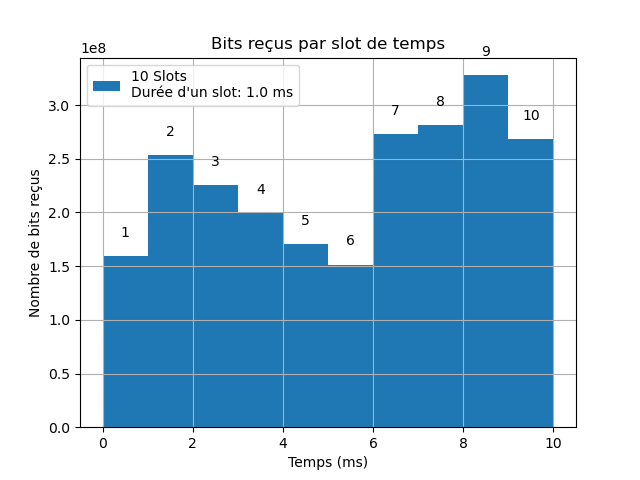
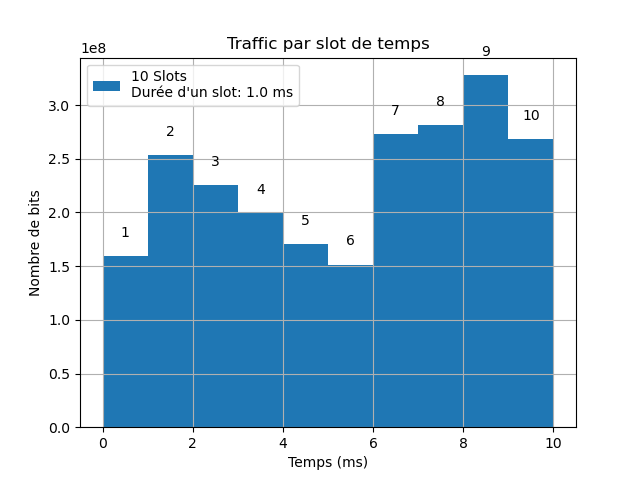
release v0

Changed region(s): [[0.3125, 0.0625, 0.6875, 0.125], [0.0312, 0.3438, 0.0625, 0.6562]]

diff --git a/lab3_eq7.py b/lab3_eq7.py
@@ -501,10 +501,11 @@ def write_transmission_ant_to_file(antennas, fichier_de_cas):
             for slot in  range(int((temps_final-temps_initial)/pas_temps)): 
                 line = f"{float(slot)}\t"
                 line += ":\t"
-                if antenna.nbits[slot] != 0 :
-                    line += f"{antenna.nbits[slot]}"
-                    for ue in antenna.live_ues[slot]:
-                        line += f"\t{ue}"
+                if antenna.nbits != [] :
+                    if antenna.nbits[slot] != 0 :
+                        line += f"{antenna.nbits[slot]}"
+                        for ue in antenna.live_ues[slot]:
+                            line += f"\t{ue}"
                 line += "\n"
                 file.write(line)
     print(f"INFO : Wrote file '{filename}' in the current directory.")
@@ -1036,7 +1037,7 @@ def simulate_packet_transmission(fichier_de_cas, fichier_de_device, antennas, ue
 
     # Boucle de simulation
     temps_courant = temps_initial
-    while temps_courant < temps_final-(temps_final-pas_temps*int((temps_final - temps_initial) / pas_temps)): # tant que le temps courant est inferieur au temps de fin de simulation
+    while temps_courant < 0.99*(temps_final-(temps_final-pas_temps*int((temps_final - temps_initial) / pas_temps))) + temps_initial : # tant que le temps courant est inferieur au temps de fin de simulation
         # Logique de simulation de transmission de paquets entre antennes et UEs
         # Pour chaque UE
         for ue in ues:
@@ -1058,9 +1059,7 @@ def simulate_packet_transmission(fichier_de_cas, fichier_de_device, antennas, ue
                         # Mettre à jour l'attribut nbits de l'antenne si celui-ci est vide
                         while len(ue.nbits) < int((temps_final - temps_initial) / pas_temps) :
                             ue.nbits.append(0)
-                    if temps_courant / pas_temps > 1.0 :
-                        print("EHHH")
-                    ue.nbits[int(round(temps_courant / pas_temps))] += nbits_transmis 
+                    ue.nbits[int(round(temps_courant / pas_temps)) - int(round(temps_initial / pas_temps))] += nbits_transmis 
                     
                     # Mettre à jour les donnees de l'antenne associee
                     antenne_associee_id = ue.assoc_ant
@@ -1079,14 +1078,14 @@ def simulate_packet_transmission(fichier_de_cas, fichier_de_device, antennas, ue
                                 # Mettre à jour l'attribut nbits de l'antenne si celui-ci est vide
                                 while len(antenne.nbits) < int((temps_final - temps_initial) / pas_temps) :
                                     antenne.nbits.append(0)
-                            antenne.nbits[int(round(temps_courant / pas_temps))] += nbits_transmis 
+                            antenne.nbits[int(round(temps_courant / pas_temps)) - int(round(temps_initial / pas_temps))] += nbits_transmis 
                             
                             # Ajouter l'UE à la liste des UEs actives de l'antenne si pas deja ajoute 
                             if antenne.live_ues == [] :
                                 while len(antenne.live_ues) < int((temps_final - temps_initial) / pas_temps) :
                                     antenne.live_ues.append([])
-                            if ue.id not in antenne.live_ues[int(temps_courant / pas_temps)]:
-                                antenne.live_ues[int(round(temps_courant / pas_temps))].append(ue.id)                            
+                            if ue.id not in antenne.live_ues[int(temps_courant / pas_temps) - int(round(temps_initial / pas_temps))]:
+                                antenne.live_ues[int(round(temps_courant / pas_temps)) - int(round(temps_initial / pas_temps))].append(ue.id)                            
                             break
 
         
@@ -1185,6 +1184,7 @@ def validate_structure(content, expected_structure):
 
 # Fonction permettant d'afficher la disposition des equipements Antennes et UEs sur un plot
 # Nbre param: 2 ( antennas = liste des antennes , ues = liste des ues)
+# Valeur de retour : None
 def plot_equipment_positions(antennas, ues):
     # Créer une nouvelle figure
     plt.figure(figsize=(8, 6))
@@ -1217,40 +1217,9 @@ def plot_equipment_positions(antennas, ues):
     
 
 
-def plot_TX_all(filename, ues, antennas, fichier_de_cas):
-    # Récupérer le pas de temps
-    pas_temps = get_from_dict('dt', fichier_de_cas)
-    
-    # Créer le graphique
-    plt.figure(figsize=(10, 6))  # Ajustez la taille selon vos préférences
-    
-    # Tracer le trafic de chaque UE avec son antenne respective
-    for ue in ues:
-        for antenne in antennas:
-            if ue.assoc_ant == antenne.id:
-                # Créer les listes des temps et des nbits pour l'UE spécifiée
-                temps = []
-                nbits = []
-                for i in range(len(ue.nbits)):
-                    temps.append(i * pas_temps)  # temps en secondes
-                    nbits.append(ue.nbits[i])
-
-                # Tracer le graphique pour l'UE et son antenne respective
-                plt.plot(temps, nbits, label=f"UE {ue.id} - Antenne {antenne.id}")
-
-    # Ajouter les légendes et les titres
-    plt.title("Historique des transmissions de toutes les UEs avec leurs antennes respectives")
-    plt.xlabel("Temps (s)")
-    plt.ylabel("Nombre de bits transmis")
-    plt.legend()
-    plt.grid(True)
-
-    # Sauvegarder le graphique dans un fichier PDF
-    plt.savefig(filename)
-    plt.close()
-
-    print(f"L'historique des transmissions de toutes les UEs avec leurs antennes respectives a été tracé dans {filename}.")
-
+# Fonction pour plot la traffic moyen pour chaque UE
+# Arguments : filename, ues= list of objects UE
+# Valeur de retour : None
 def plot_average_traffic_ues(filename, ues):
     # Calculer la moyenne du trafic pour chaque UE
     average_traffic_ues = [sum(ue.nbits) / len(ue.nbits) if ue.nbits else 0  for ue in ues]
@@ -1275,11 +1244,14 @@ def plot_average_traffic_ues(filename, ues):
     plt.savefig(png_filename)
     plt.close()
 
-    print(f"The average traffic of each UE has been plotted in '{pdf_filename}' and '{png_filename}'.")
+    print(f"INFO : Please find the average traffic for each UE plotted in the files '{pdf_filename}' and '{png_filename}'.")
 
+# Fonction pour plot la traffic moyen pour chaque antenne
+# Arguments : filename, antennas= list of objects Antenna
+# Valeur de retour : None
 def plot_average_traffic_antennas(filename, antennas):
     # Calculer la moyenne du trafic pour chaque antenne
-    average_traffic_antennas = [sum(antenne.nbits) / len(antenne.nbits) for antenne in antennas]
+    average_traffic_antennas = [sum(antenne.nbits) / len(antenne.nbits) if antenne.nbits else 0 for antenne in antennas]
 
     # Extraire les ID des antennes
     antenna_ids = [antenne.id for antenne in antennas]
@@ -1301,14 +1273,18 @@ def plot_average_traffic_antennas(filename, antennas):
     plt.savefig(png_filename)
     plt.close()
 
-    print(f"The average traffic of each UE has been plotted in '{pdf_filename}' and '{png_filename}'.")
+    print(f"INFO : Please find the average traffic for each antenna plotted in the files '{pdf_filename}' and '{png_filename}'.")
 
+# Fonction to plot the traffic per time slot
+# Arguments : antennas= list of objects Antenna, ues= liste of objects UE, fichier_de_cas, filename_prefix
+# Valeur de retour : None
 def plot_bits_received_per_slot(antennas, ues, fichier_de_cas, filename_prefix):
     num_slots = len(ues[0].nbits)  # Nombre de créneaux basé sur la longueur de la liste de bits reçus d'un UE
     slot_interval = get_from_dict('dt',fichier_de_cas) # pas de temps dt
+    temps_initial = get_from_dict('tstart',fichier_de_cas)
 
     # Création des créneaux en millisecondes
-    slots = np.arange(0, num_slots * slot_interval, slot_interval)
+    slots = np.arange(temps_initial, num_slots * slot_interval + temps_initial, slot_interval)
 
     slot_sum_bits_received = np.zeros(num_slots)  # Tableau pour stocker la somme des bits reçus pour chaque créneau
 
@@ -1331,8 +1307,8 @@ def plot_bits_received_per_slot(antennas, ues, fichier_de_cas, filename_prefix):
     # Création du graphique
     plt.bar(slots, slot_sum_bits_received, width=slot_interval, align='edge')
     plt.xlabel('Temps (ms)')
-    plt.ylabel('Nombre de bits reçus')
-    plt.title('Bits reçus par slot de temps')
+    plt.ylabel('Nombre de bits')
+    plt.title('Traffic par slot de temps')
     plt.grid(True)
 
     # Ajouter la durée d'un slot et le numéro de chaque slot au-dessus du graphique
@@ -1351,7 +1327,7 @@ def plot_bits_received_per_slot(antennas, ues, fichier_de_cas, filename_prefix):
     pdf_filename = f"{filename_prefix}.pdf"
     plt.savefig(pdf_filename, format='pdf')
 
-    print(f"The total number of bits received per time slot has been plotted in '{pdf_filename}' and '{png_filename}'.")
+    print(f"INFO : Please find the traffic per time-slot plotted in the files '{pdf_filename}' and '{png_filename}'.")
 
 
 
@@ -1413,7 +1389,7 @@ def sanity_check_dimensions(fichier_de_cas):
 # Nbre de param: 3 (warning_log = warning message , filename = nom du fichier des warning, fichier_de_cas)
 def write_pathloss_warning_log_file(warning_log, filename, fichier_de_cas):
     if warning_log == "":
-        print("Aucun problem lors du calcul des pathloss!")
+        print("No problem detected during the pathloss calculation!")
     else:
         write_to_file(filename, warning_log)
         count = warning_log.count("WARNING")
@@ -1459,6 +1435,7 @@ def main(arg):
     antennas, ues = simulate_packet_transmission(fichier_de_cas, fichier_de_device, antennas, ues)
 
     # Ecriture des fichiers de sortie et du plot des equipements
+    write_pathloss_warning_log_file(warning_log, "pathloss_warning_log.txt", fichier_de_cas)
     write_coordinates_to_file(antennas,ues, fichier_de_cas)
     write_pathloss_to_file(pathlosses, fichier_de_cas)
     write_assoc_ues_to_file(antennas)
@@ -1466,9 +1443,6 @@ def main(arg):
     write_transmission_ant_to_file(antennas, fichier_de_cas)
     write_transmission_ue_to_file(ues, fichier_de_cas)
     plot_equipment_positions(antennas, ues)
-    # plot_TX_ue("test.pdf", 7, ues, fichier_de_cas)
-    # plot_TX_all("test.pdf", ues, antennas, fichier_de_cas)
-    write_pathloss_warning_log_file(warning_log, "pathloss_warning_log.txt", fichier_de_cas)
     plot_average_traffic_ues("average_traffic_ues", ues)
     plot_average_traffic_antennas("average_traffic_antennas", antennas)
     plot_bits_received_per_slot(antennas, ues, fichier_de_cas, "average_traffic_per_slot")
